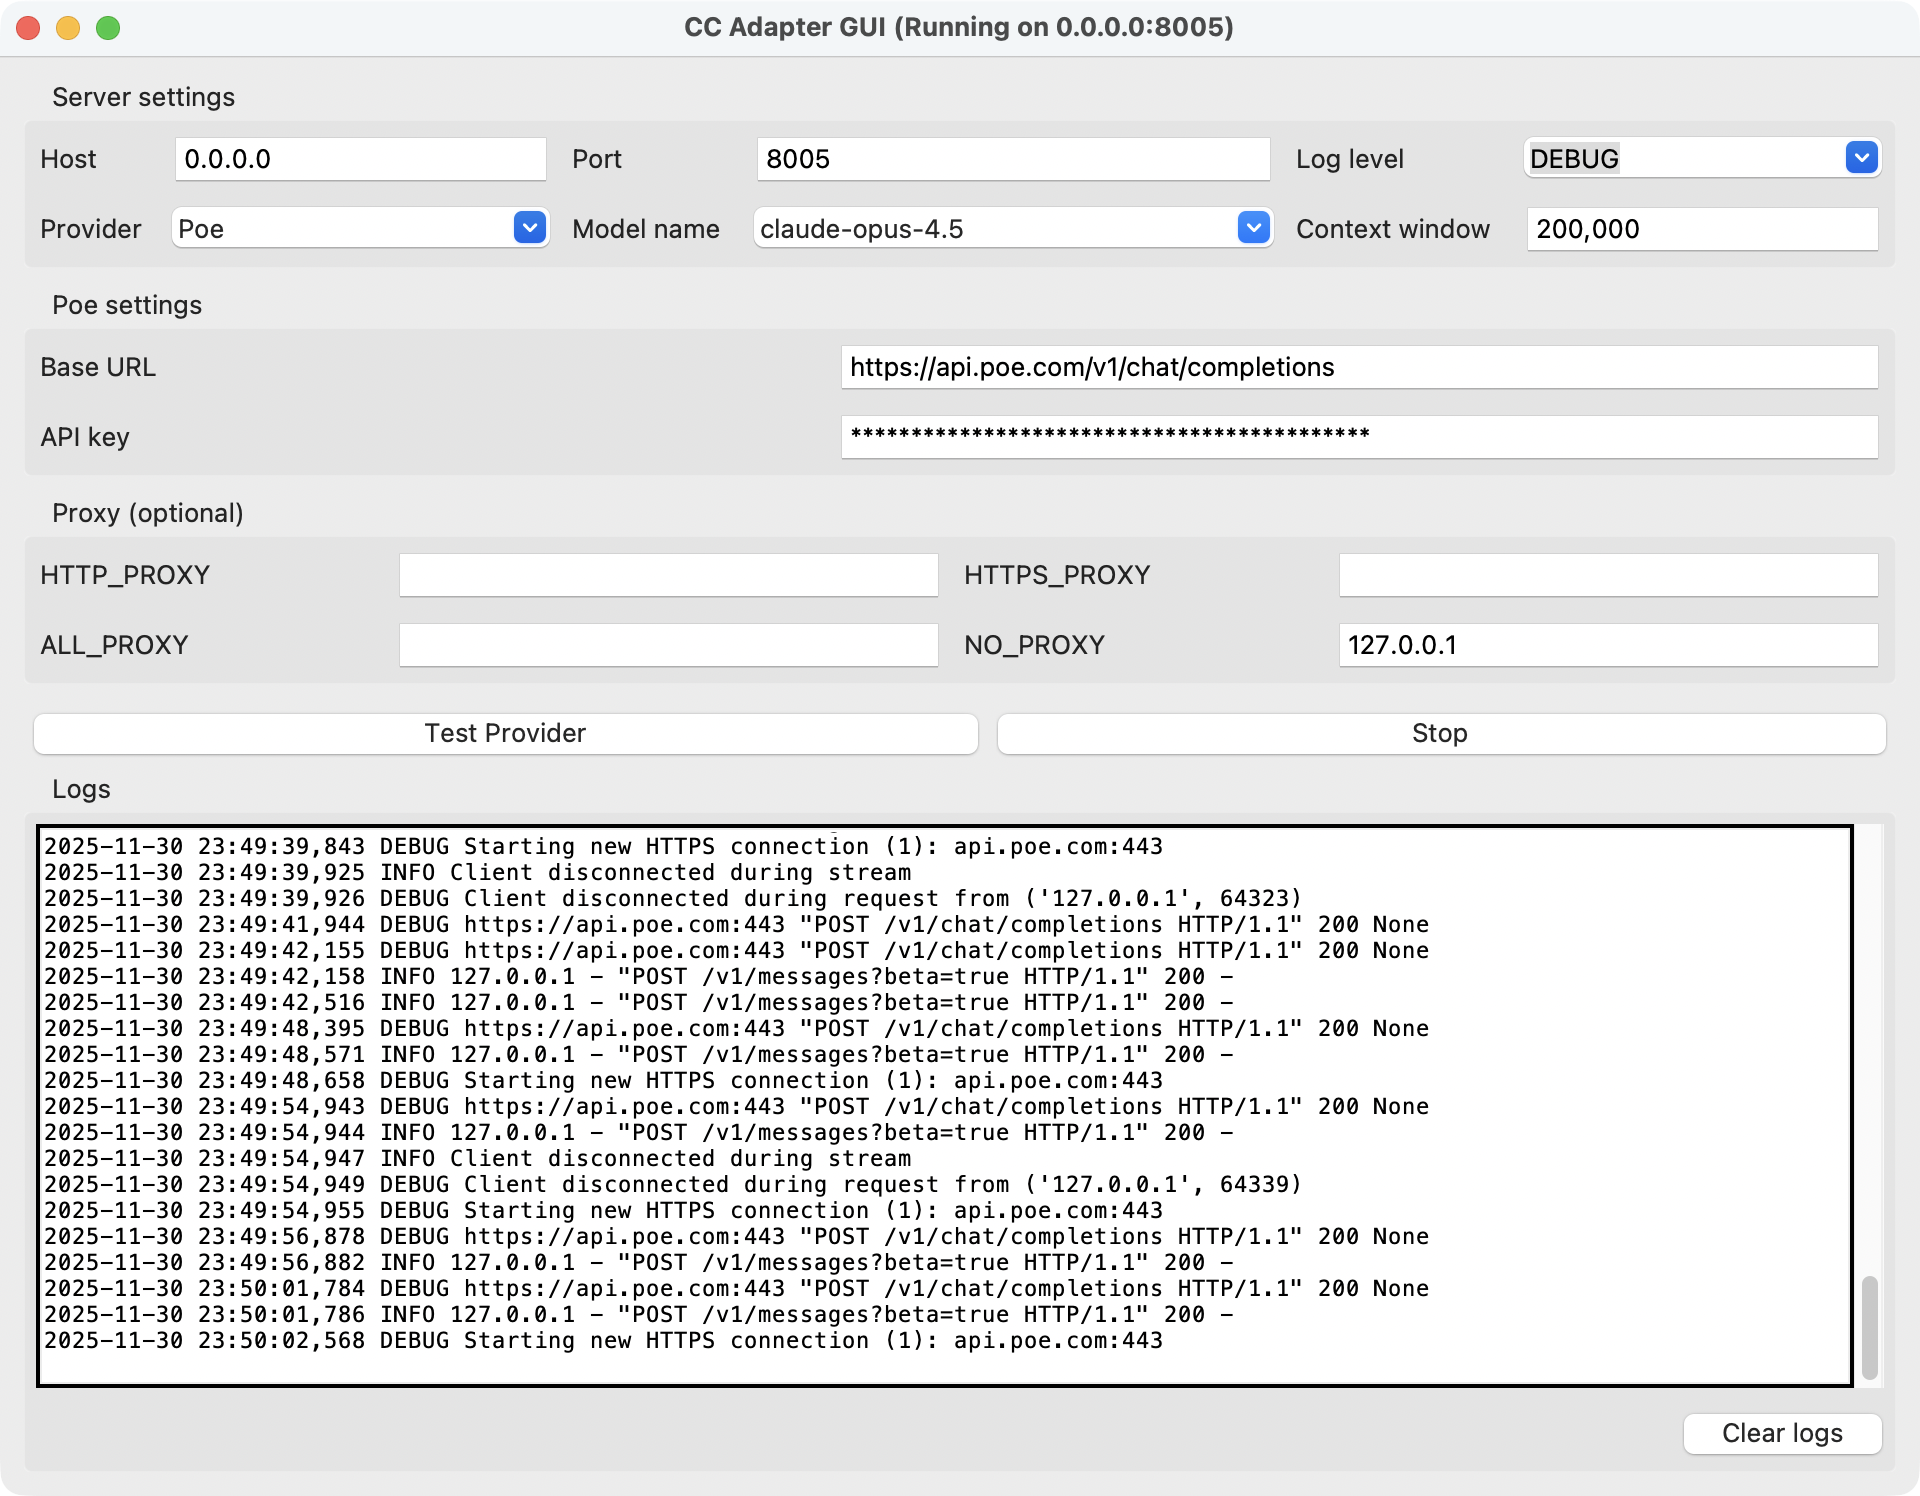
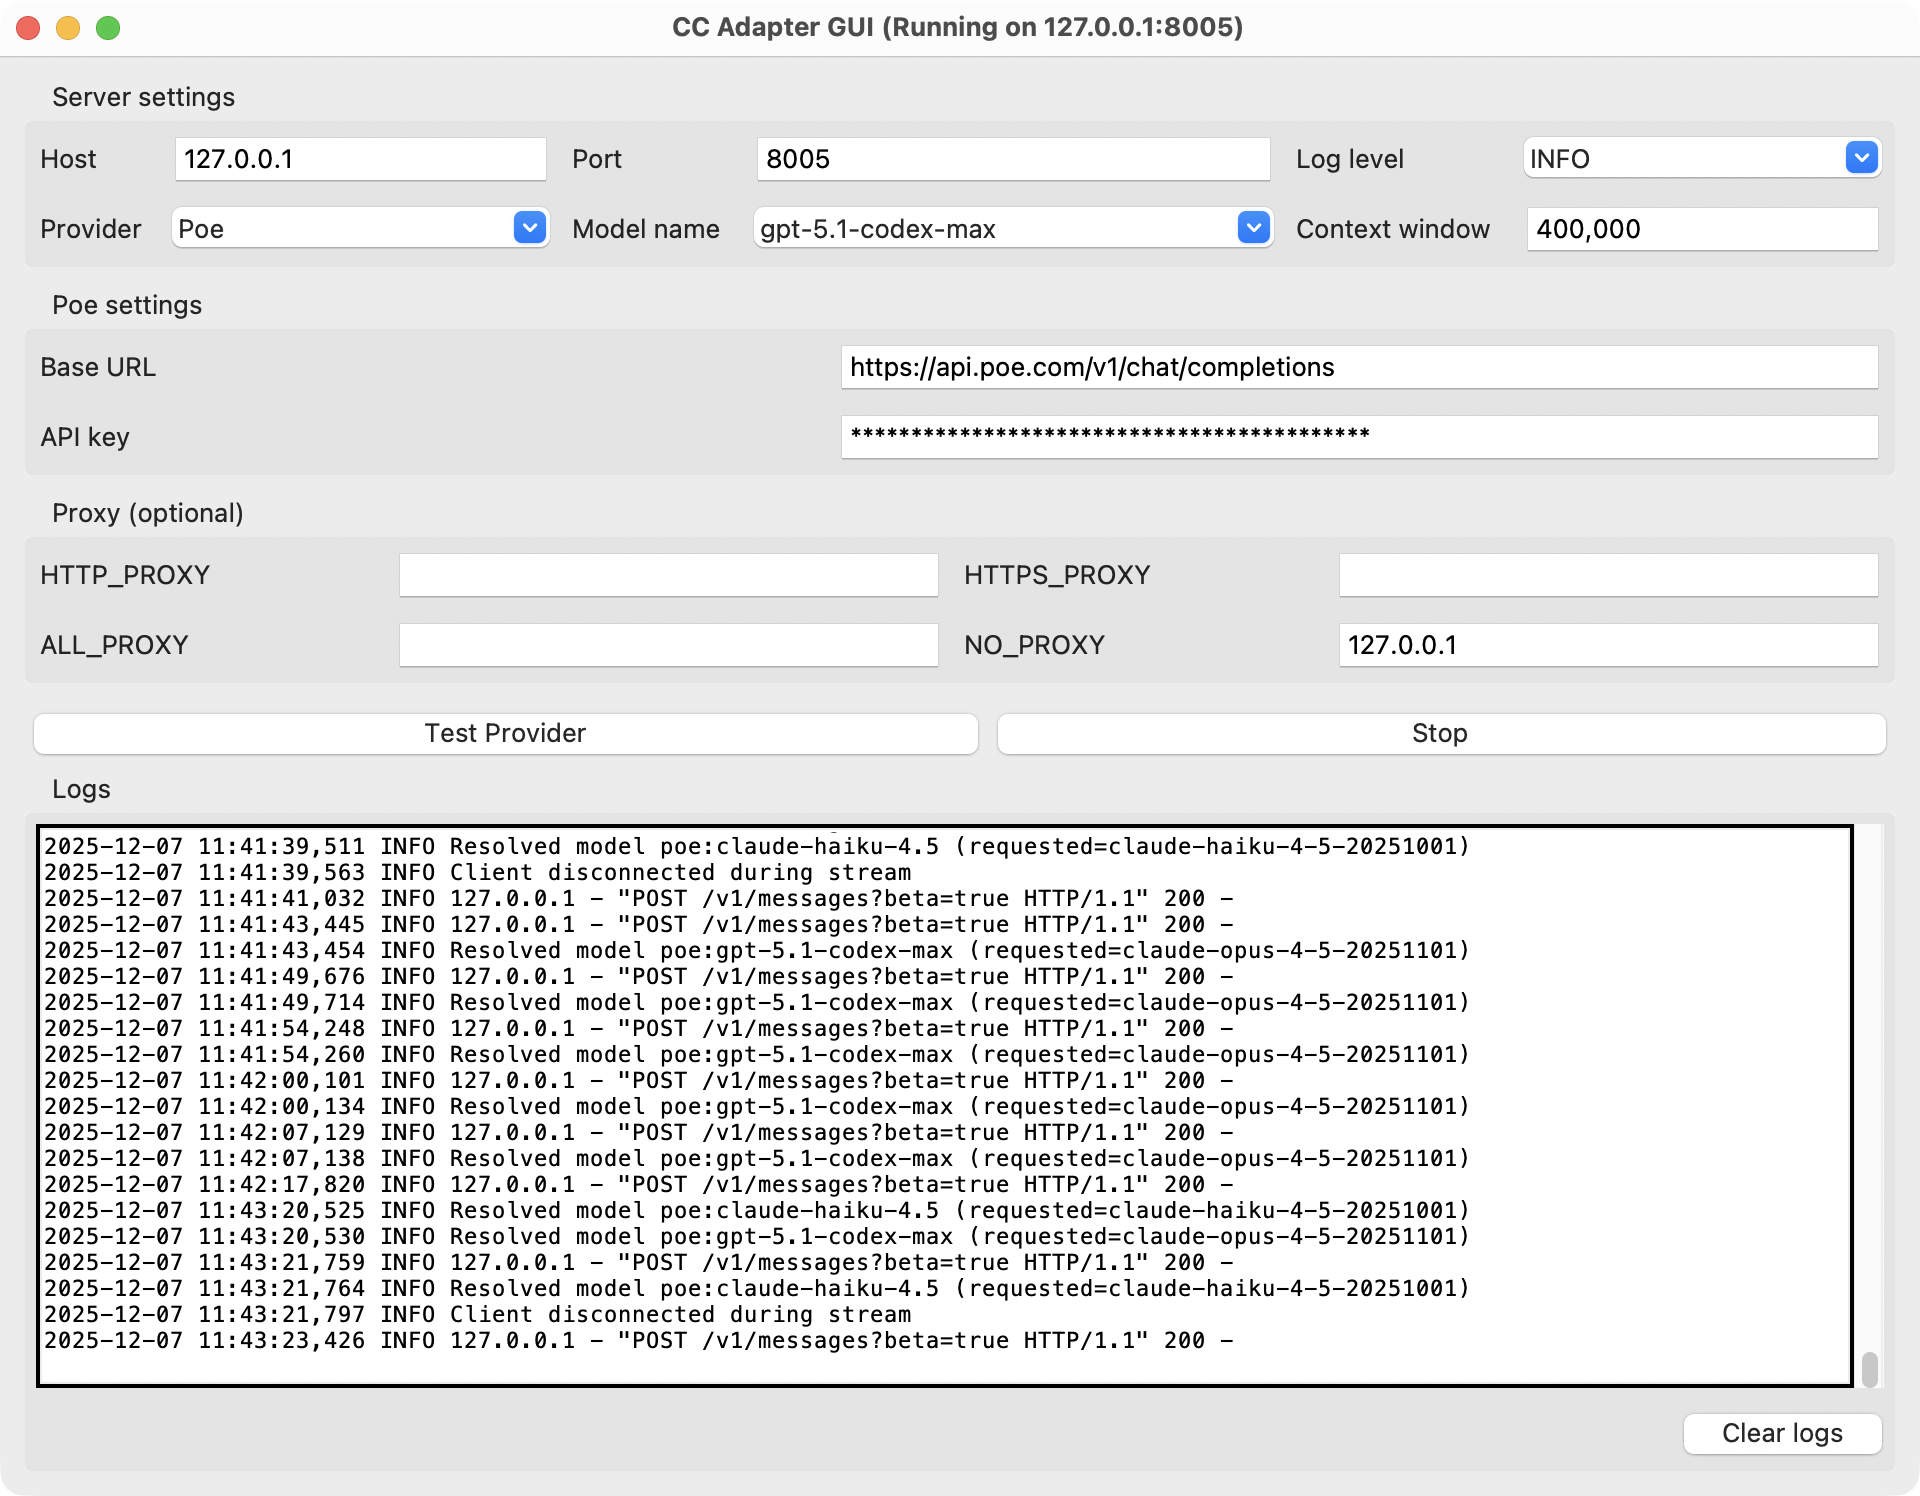
fix: Update README for clarity; change default host to 127.0.0.1 in config and server

diff --git a/cc_adapter/server.py b/cc_adapter/server.py
@@ -338,7 +338,7 @@ def build_server(settings: Settings) -> AdapterHTTPServer:
 
 def main():
     parser = argparse.ArgumentParser(description="LM Studio / Poe / OpenRouter adapter")
-    parser.add_argument("--host", default=os.getenv("ADAPTER_HOST", "0.0.0.0"))
+    parser.add_argument("--host", default=os.getenv("ADAPTER_HOST", "127.0.0.1"))
     parser.add_argument("--port", type=int, default=int(os.getenv("ADAPTER_PORT", "8005")))
     parser.add_argument("--daemon", action="store_true", help="run in background")
     parser.add_argument(

diff --git a/cc_adapter/config.py b/cc_adapter/config.py
@@ -25,7 +25,7 @@ def default_context_window_for(model: Optional[str]) -> int:
 
 @dataclass
 class Settings:
-    host: str = os.getenv("ADAPTER_HOST", "0.0.0.0")
+    host: str = os.getenv("ADAPTER_HOST", "127.0.0.1")
     port: int = int(os.getenv("ADAPTER_PORT", "8005"))
     model: str = os.getenv("CC_ADAPTER_MODEL", "")
     context_window: int = int(os.getenv("CONTEXT_WINDOW", "0"))

diff --git a/README.md b/README.md
@@ -3,17 +3,30 @@
 [![PyPI Version](https://img.shields.io/pypi/v/cc-adapter)](https://pypi.org/project/cc-adapter/)
 [![Monthly Downloads](https://img.shields.io/badge/dynamic/json?url=https://pypistats.org/api/packages/cc-adapter/recent&query=data.last_month&label=downloads/month)](https://pypistats.org/packages/cc-adapter)
 
-Claude Code-compatible adapter bridging Anthropic `/v1/messages` to LM Studio, Poe, or OpenRouter and back. Streaming, tool calls, and cache-control passthrough are supported.
+cc-adapter lets Claude Code speak Anthropic `/v1/messages` to LM Studio, Poe, or OpenRouter. It supports streaming, tool calls, and cache-control passthrough.
+
+## Tested models (quick list)
+Choose one of these thoroughly tested models (provider prefix required):
+
+- `poe:gpt-5.1-codex-max` (**recommended**; requires Poe key)
+- `poe:claude-opus-4.5` (requires Poe key)
+- `poe:claude-sonnet-4.5` (requires Poe key)
+- `poe:gpt-5.1-codex` (requires Poe key)
+- `openrouter:gpt-5.1-codex-max` (requires OpenRouter key)
+- `openrouter:claude-opus-4.5` (requires OpenRouter key)
+- `openrouter:claude-sonnet-4.5` (requires OpenRouter key)
+- `openrouter:gpt-5.1-codex` (requires OpenRouter key)
+- `lmstudio:gpt-oss-120b` (requires LM Studio + gpt-oss-120b)
 
 ## Install from PyPI (recommended)
-Quickest way to get cc-adapter.
+Quickest way to get cc-adapter:
 
 ```bash
 uv tool install cc-adapter
 ```
 
 ## Install from source
-Clone and set up a local dev environment.
+Clone and set up a local dev environment:
 
 ```bash
 git clone https://github.com/binbinsh/cc-adapter.git
@@ -22,84 +35,72 @@ uv venv --python 3.12
 uv sync
 ```
 
-## GUI (recommended)
-Launch the Tkinter GUI for configure/start/stop:
+## Quick start (minimal CLI)
+Run the recommended Poe model and point Claude Code to the adapter:
+
+```bash
+uv run cc-adapter --host 127.0.0.1 --port 8005 \
+  --model poe:gpt-5.1-codex-max \
+  --poe-api-key YOUR_POE_API_KEY \
+  --daemon
+
+export ANTHROPIC_BASE_URL=http://127.0.0.1:8005
+export ANTHROPIC_AUTH_TOKEN=dummy
+export ANTHROPIC_API_KEY=
+export NO_PROXY=127.0.0.1
+export DISABLE_TELEMETRY=true
+export DISABLE_COST_WARNINGS=true
+export API_TIMEOUT_MS=600000
+export CLAUDE_CODE_USE_BEDROCK=
+claude
 ```
+
+Notes:
+- `--host` defaults to `127.0.0.1`; only use `0.0.0.0` if you must expose it.
+- Change `--port` if 8005 is taken.
+- Swap `--model` for any tested model above (ensure the matching provider keys).
+
+## GUI (recommended for setup)
+Launch the Tkinter GUI to configure and start/stop the adapter:
+
+```bash
 uv run cc-adapter-gui
 ```
 
-Set provider/model/API keys in the window, then use `Test Provider` and `Start/Stop`
+Set provider/model/API keys in the window, then use `Test Provider` and `Start/Stop`.
 
 <img src="https://raw.githubusercontent.com/binbinsh/cc-adapter/main/screenshot.png" alt="CC Adapter GUI" width="800">
 
-## LM Studio backend (CLI)
-Run cc-adapter against an LM Studio OpenAI-compatible server with gpt-oss-120b.
+## CLI examples
+Common flags: `--host` (default 127.0.0.1), `--port` (default 8005), plus provider-specific API keys.
 
+### LM Studio
 ```bash
-uv run cc-adapter --host 0.0.0.0 --port 8005 \
+uv run cc-adapter --host 127.0.0.1 --port 8005 \
   --model lmstudio:gpt-oss-120b \
   --lmstudio-base http://127.0.0.1:1234/v1/chat/completions \
   --lmstudio-timeout 3600 \
   --daemon
 ```
 
-## Poe backend (CLI)
-Run cc-adapter with Poe as the provider and claude-opus-4.5 model,
+### Poe
 ```bash
-uv run cc-adapter --host 0.0.0.0 --port 8005 \
-  --model poe:claude-opus-4.5 \
+uv run cc-adapter --host 127.0.0.1 --port 8005 \
+  --model poe:gpt-5.1-codex-max \
   --poe-api-key YOUR_POE_API_KEY \
   --daemon
 ```
 
-or claude-sonnet-4.5 for cheaper model,
-
+### OpenRouter
 ```bash
-uv run cc-adapter --host 0.0.0.0 --port 8005 \
-  --model poe:claude-sonnet-4.5 \
-  --poe-api-key YOUR_POE_API_KEY \
-  --daemon
-```
-
-gpt-5.1-codex is also available:
-
-```bash
-uv run cc-adapter --host 0.0.0.0 --port 8005 \
-  --model poe:gpt-5.1-codex \
-  --poe-api-key YOUR_POE_API_KEY \
-  --daemon
-```
-
-## OpenRouter backend (CLI)
-Run cc-adapter with OpenRouter as the provider.
-```bash
-uv run cc-adapter --host 0.0.0.0 --port 8005 \
-  --model openrouter:claude-opus-4.5 \
+uv run cc-adapter --host 127.0.0.1 --port 8005 \
+  --model openrouter:gpt-5.1-codex-max \
   --openrouter-api-key YOUR_OPENROUTER_API_KEY \
   --daemon
 ```
 
-or
-
-```bash
-uv run cc-adapter --host 0.0.0.0 --port 8005 \
-  --model openrouter:claude-sonnet-4.5 \
-  --openrouter-api-key YOUR_OPENROUTER_API_KEY \
-  --daemon
-```
-
-gpt-5.1-codex is also available:
-
-```bash
-uv run cc-adapter --host 0.0.0.0 --port 8005 \
-  --model openrouter:gpt-5.1-codex \
-  --openrouter-api-key YOUR_OPENROUTER_API_KEY \
-  --daemon
-```
-
-## Proxy support
-Use your OS proxy environment variables when VPN/firewall rules block provider calls.
-Set `HTTP_PROXY`/`HTTPS_PROXY` (or `ALL_PROXY` for SOCKS) and `NO_PROXY` for hosts to bypass; your VPN/proxy app or system network settings show the host/port (e.g. Clash/Surge local port).
+## Proxy support (optional)
+Only set these if your network blocks provider calls:
 
 ```bash
 export HTTP_PROXY=http://localhost:port
@@ -109,7 +110,7 @@ uv run cc-adapter --model poe:claude-sonnet-4.5 --poe-api-key YOUR_POE_API_KEY
 ```
 
 ## Run Claude Code
-Point Claude Code to the adapter using these env vars.
+Point Claude Code to the adapter:
 
 ```bash
 export ANTHROPIC_BASE_URL=http://127.0.0.1:8005
@@ -123,16 +124,3 @@ export CLAUDE_CODE_USE_BEDROCK=
 
 claude
 ```
-
-## Tested models
-Choose one of these thoroughly tested models (provider prefix required).
-
-- `lmstudio:gpt-oss-120b` (requires LM Studio + gpt-oss-120b)
-- `poe:claude-sonnet-4.5` (requires Poe key)
-- `poe:claude-opus-4.5` (requires Poe key)
-- `poe:gpt-5.1-codex` (requires Poe key)
-- `poe:gpt-5.1-codex-max` (requires Poe key)
-- `openrouter:claude-sonnet-4.5` (requires OpenRouter key)
-- `openrouter:claude-opus-4.5` (requires OpenRouter key)
-- `openrouter:gpt-5.1-codex` (requires OpenRouter key)
-- `openrouter:gpt-5.1-codex-max` (requires OpenRouter key)
